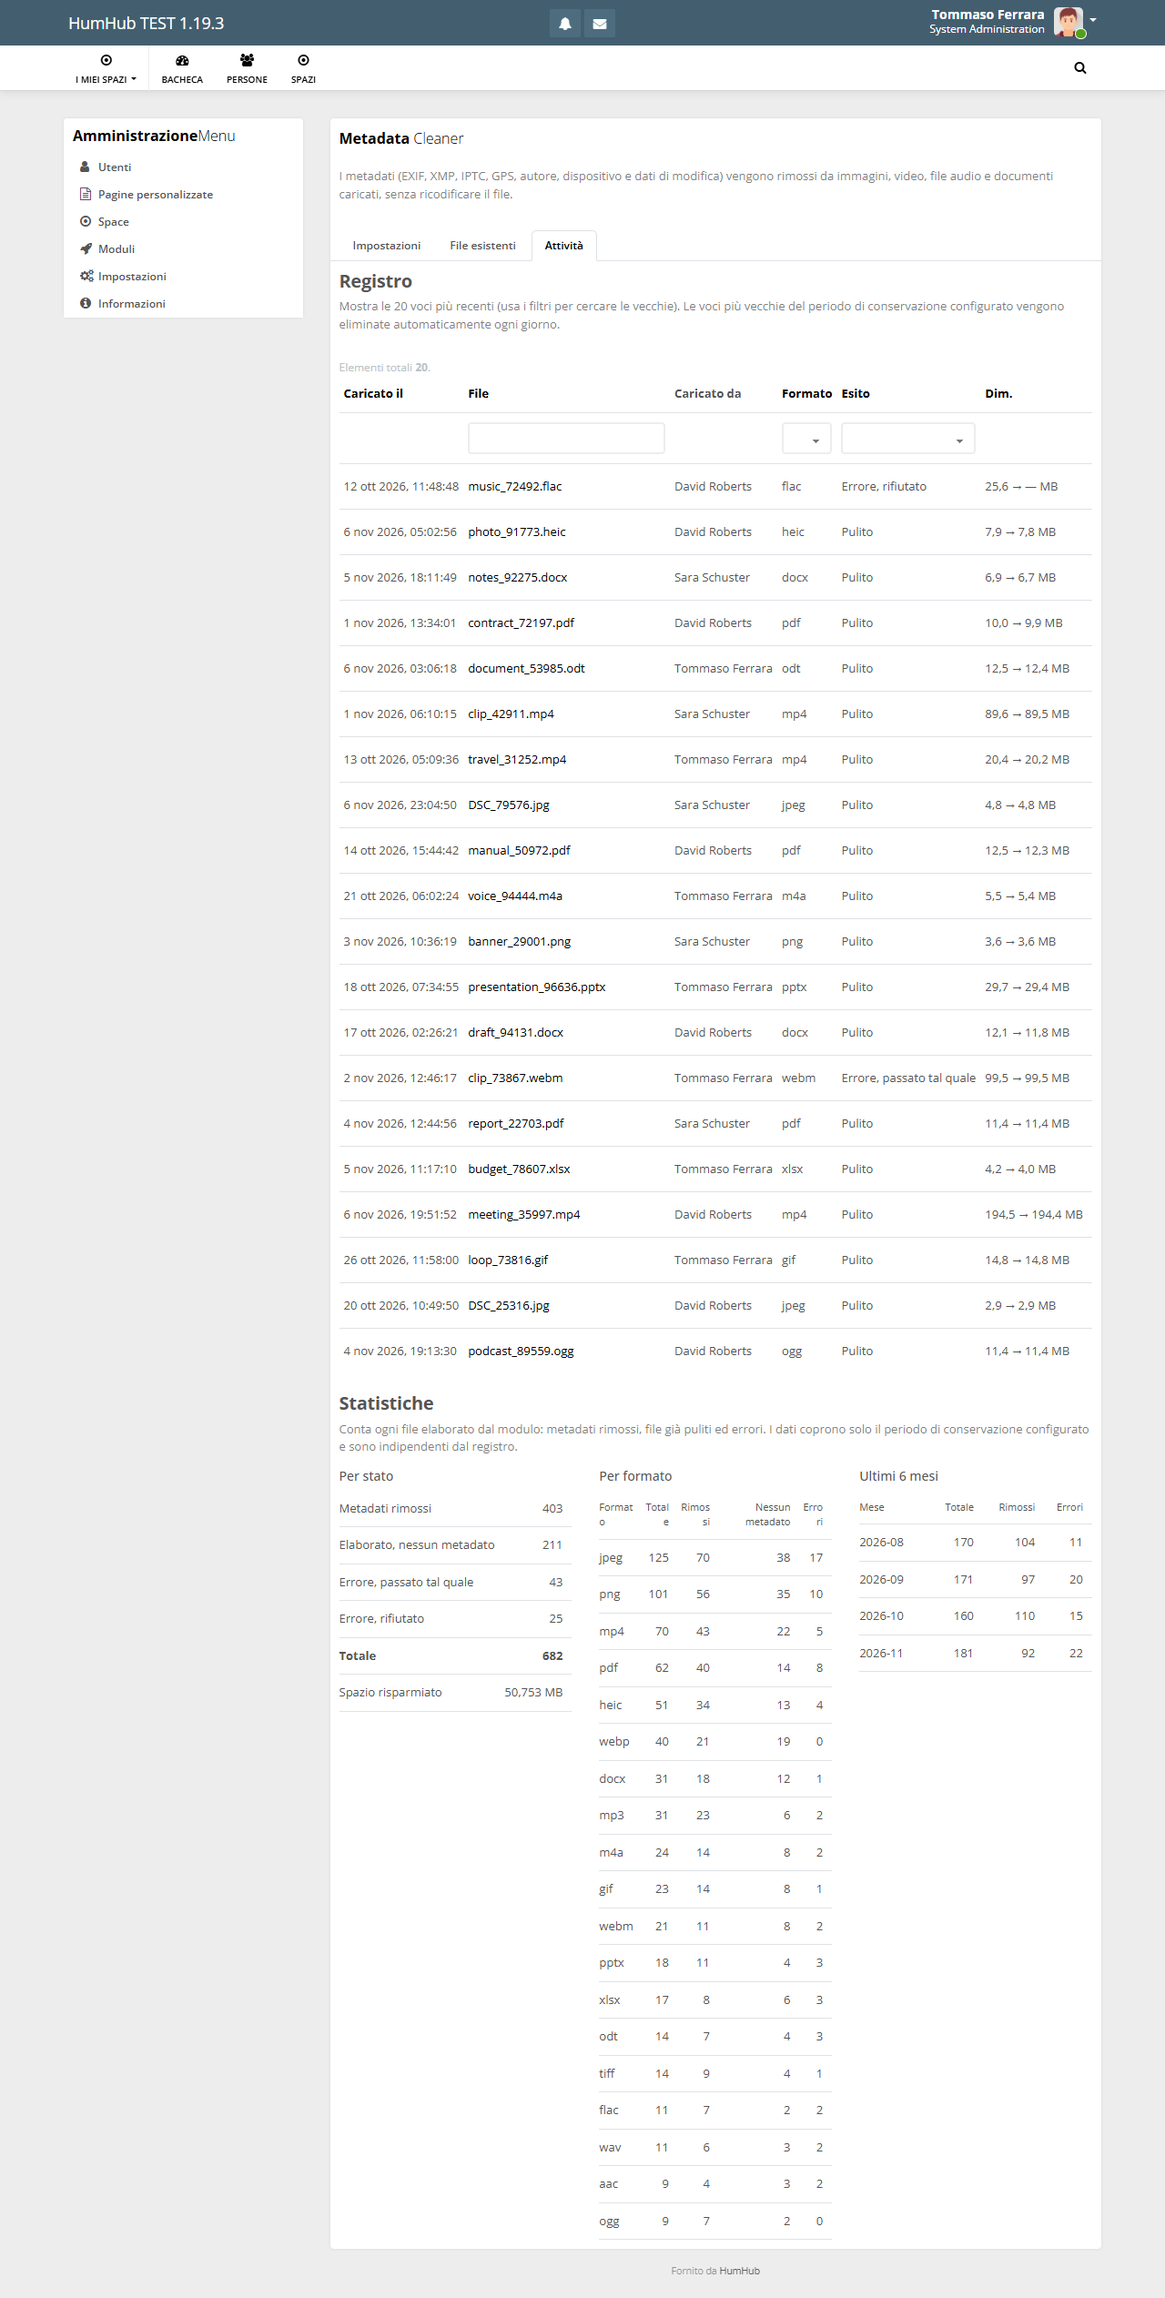
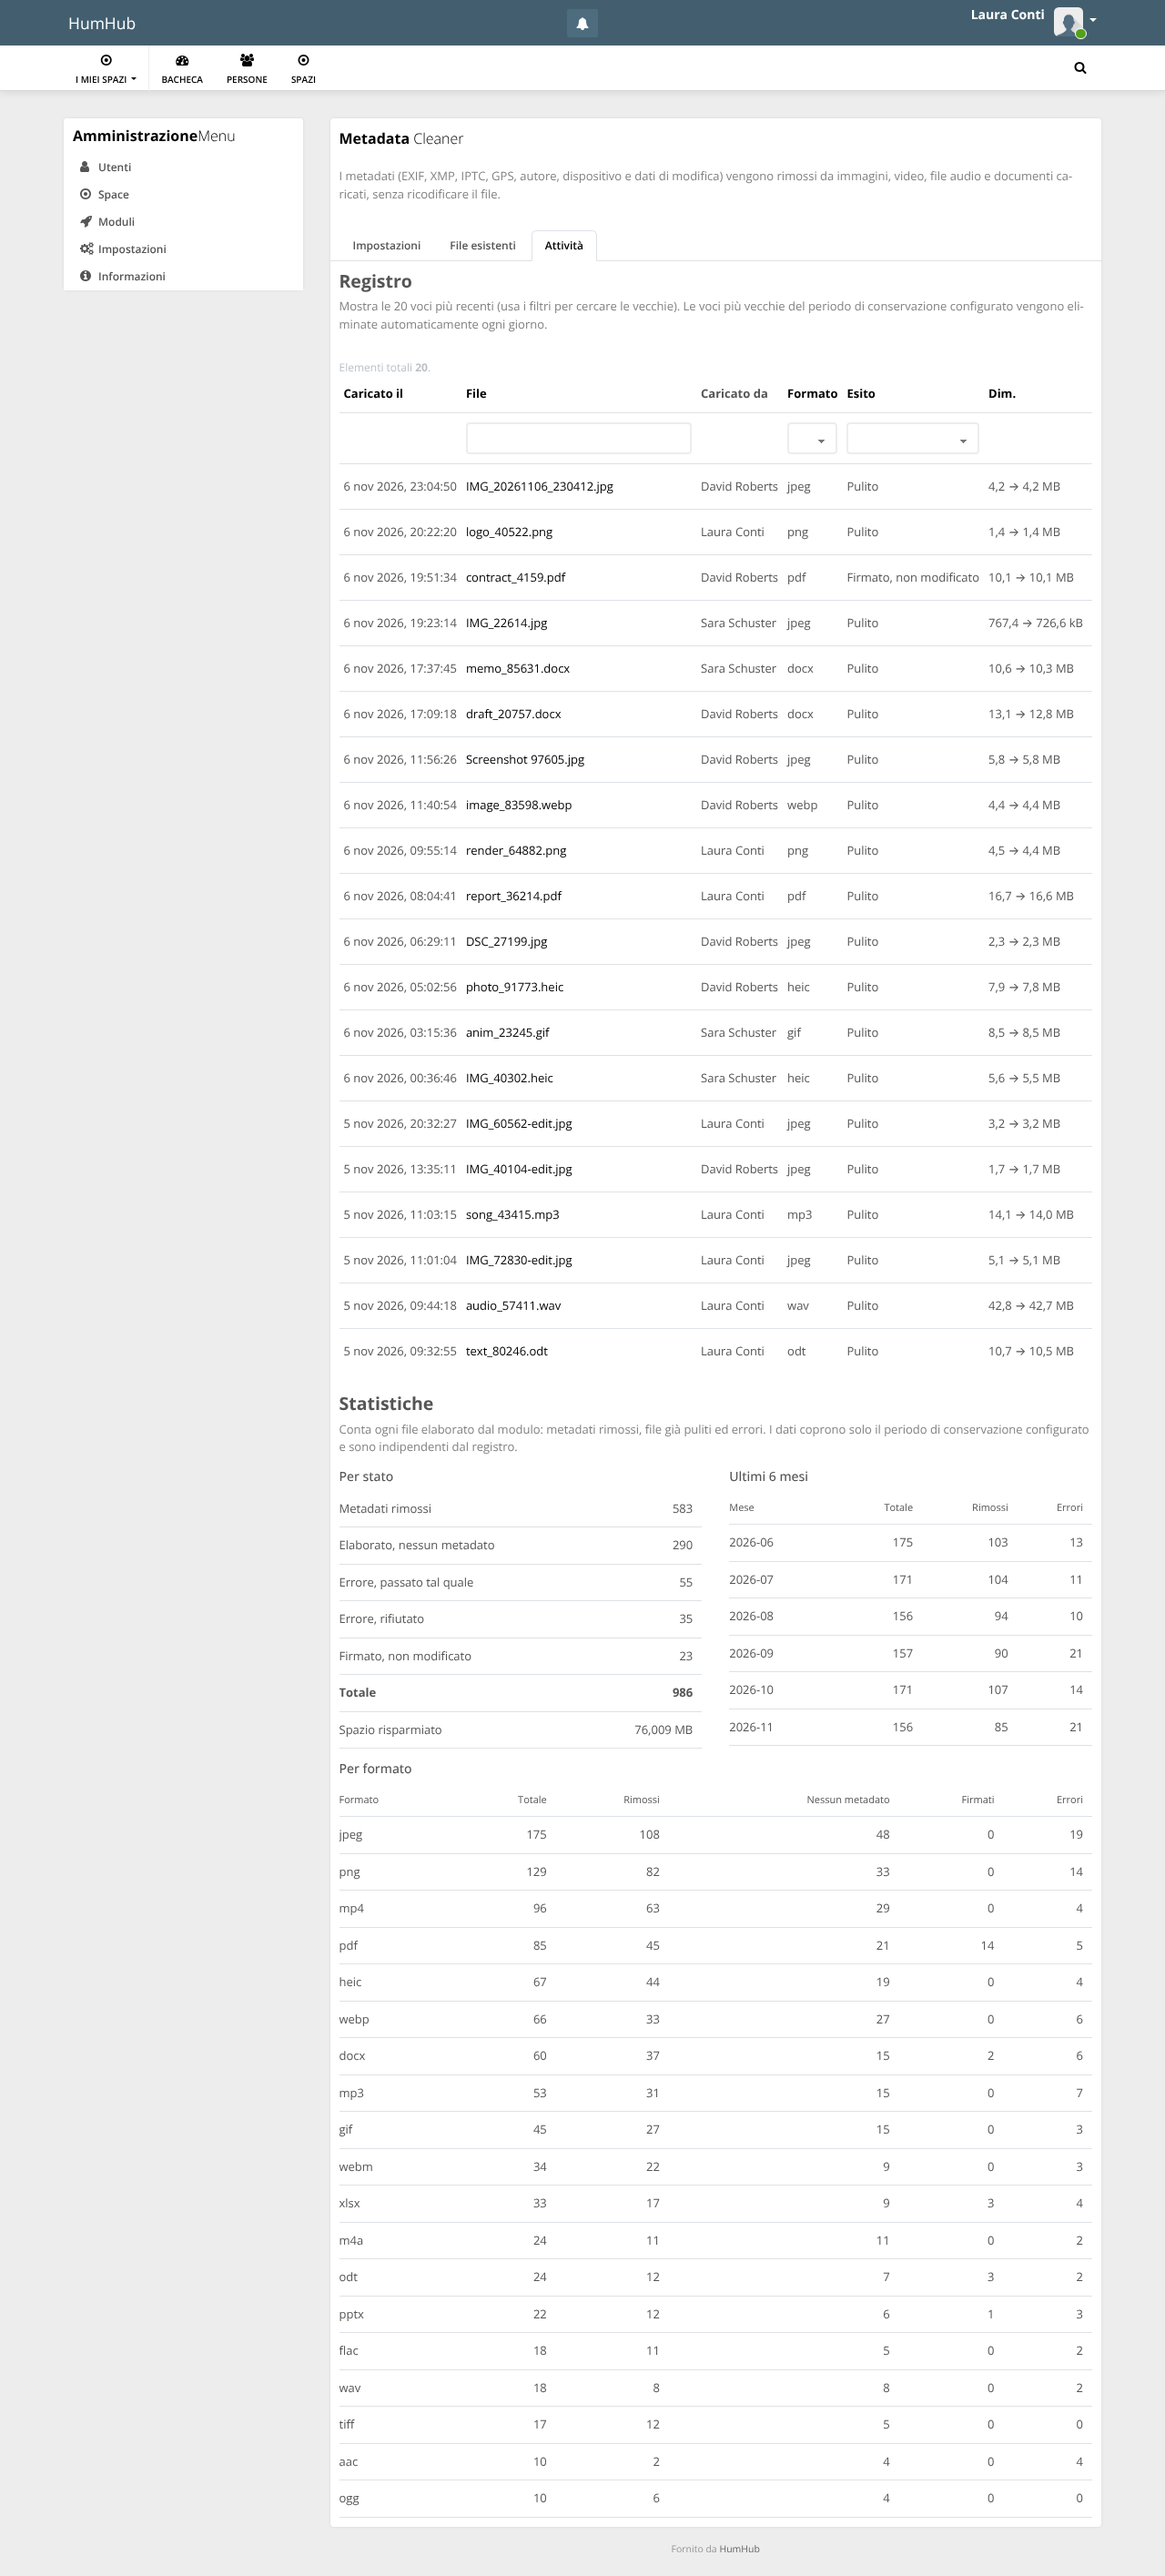
New screenshots (English and Italian) and demo data with signed documents
- Screenshots retaken on HumHub 1.19.3 with the interface checked to be in
  English (and Italian for resources/screenshots/it).
- gen-demo-data.py adds signed documents and keeps log rows in date order.

Claude-Session: https://claude.ai/code/session_014CpooELZiXyViti1mHXEnr

diff --git a/tests/bin/gen-demo-data.py b/tests/bin/gen-demo-data.py
@@ -112,8 +112,13 @@ def pick_weighted(items):
         if r <= acc: return it
     return items[-1]
 
-def pick_status():
+SIGNABLE = {"pdf", "docx", "xlsx", "pptx", "odt"}
+SIGNED_ERROR = "Digitally signed document: left unchanged so that the signature stays valid."
+
+def pick_status(code):
     r = random.random()
+    if code in SIGNABLE and random.random() < 0.12:
+        return "signed"
     return "cleaned" if r < 0.60 else ("clean" if r < 0.90 else ("passed" if r < 0.96 else "rejected"))
 
 def pick_source():
@@ -131,7 +136,7 @@ events = []
 for (y, m) in MONTHS:
     for _ in range(random.randint(155, 175)):
         code, mime, w, (lo, hi) = pick_weighted(FORMATS)
-        status = pick_status()
+        status = pick_status(code)
         size = random.randint(lo, hi)
         if status == "cleaned":
             lo_s, hi_s = SAVED_RANGE.get(code, (5_000, 200_000))
@@ -139,7 +144,7 @@ for (y, m) in MONTHS:
             size_after = size - saved
         elif status == "clean":
             saved = 0; size_after = size
-        elif status == "passed":
+        elif status in ("passed", "signed"):
             saved = 0; size_after = size
         else:
             saved = 0; size_after = None
@@ -152,9 +157,9 @@ for (y, m) in MONTHS:
                                   random.randint(0,59), random.randint(100000,999999), random.randint(100000,999999), random.randint(0,999))
         events.append(dict(dt=rand_dt(y,m), fmt=code, mime=mime, status=status, size=size, after=size_after,
                            saved=saved, source=pick_source(), user=random.choice(USERS), file=random.choice(FILES),
-                           name=name, meta=meta, err=random.choice(ERRORS) if status in ("passed","rejected") else None))
+                           name=name, meta=meta, err=SIGNED_ERROR if status == "signed" else (random.choice(ERRORS) if status in ("passed","rejected") else None)))
 
-random.shuffle(events)
+events.sort(key=lambda e: e["dt"])  # newest rows last, as in a real log
 log_rows = []; stats = {}
 for e in events:
     ym = e["dt"].strftime("%Y-%m")
